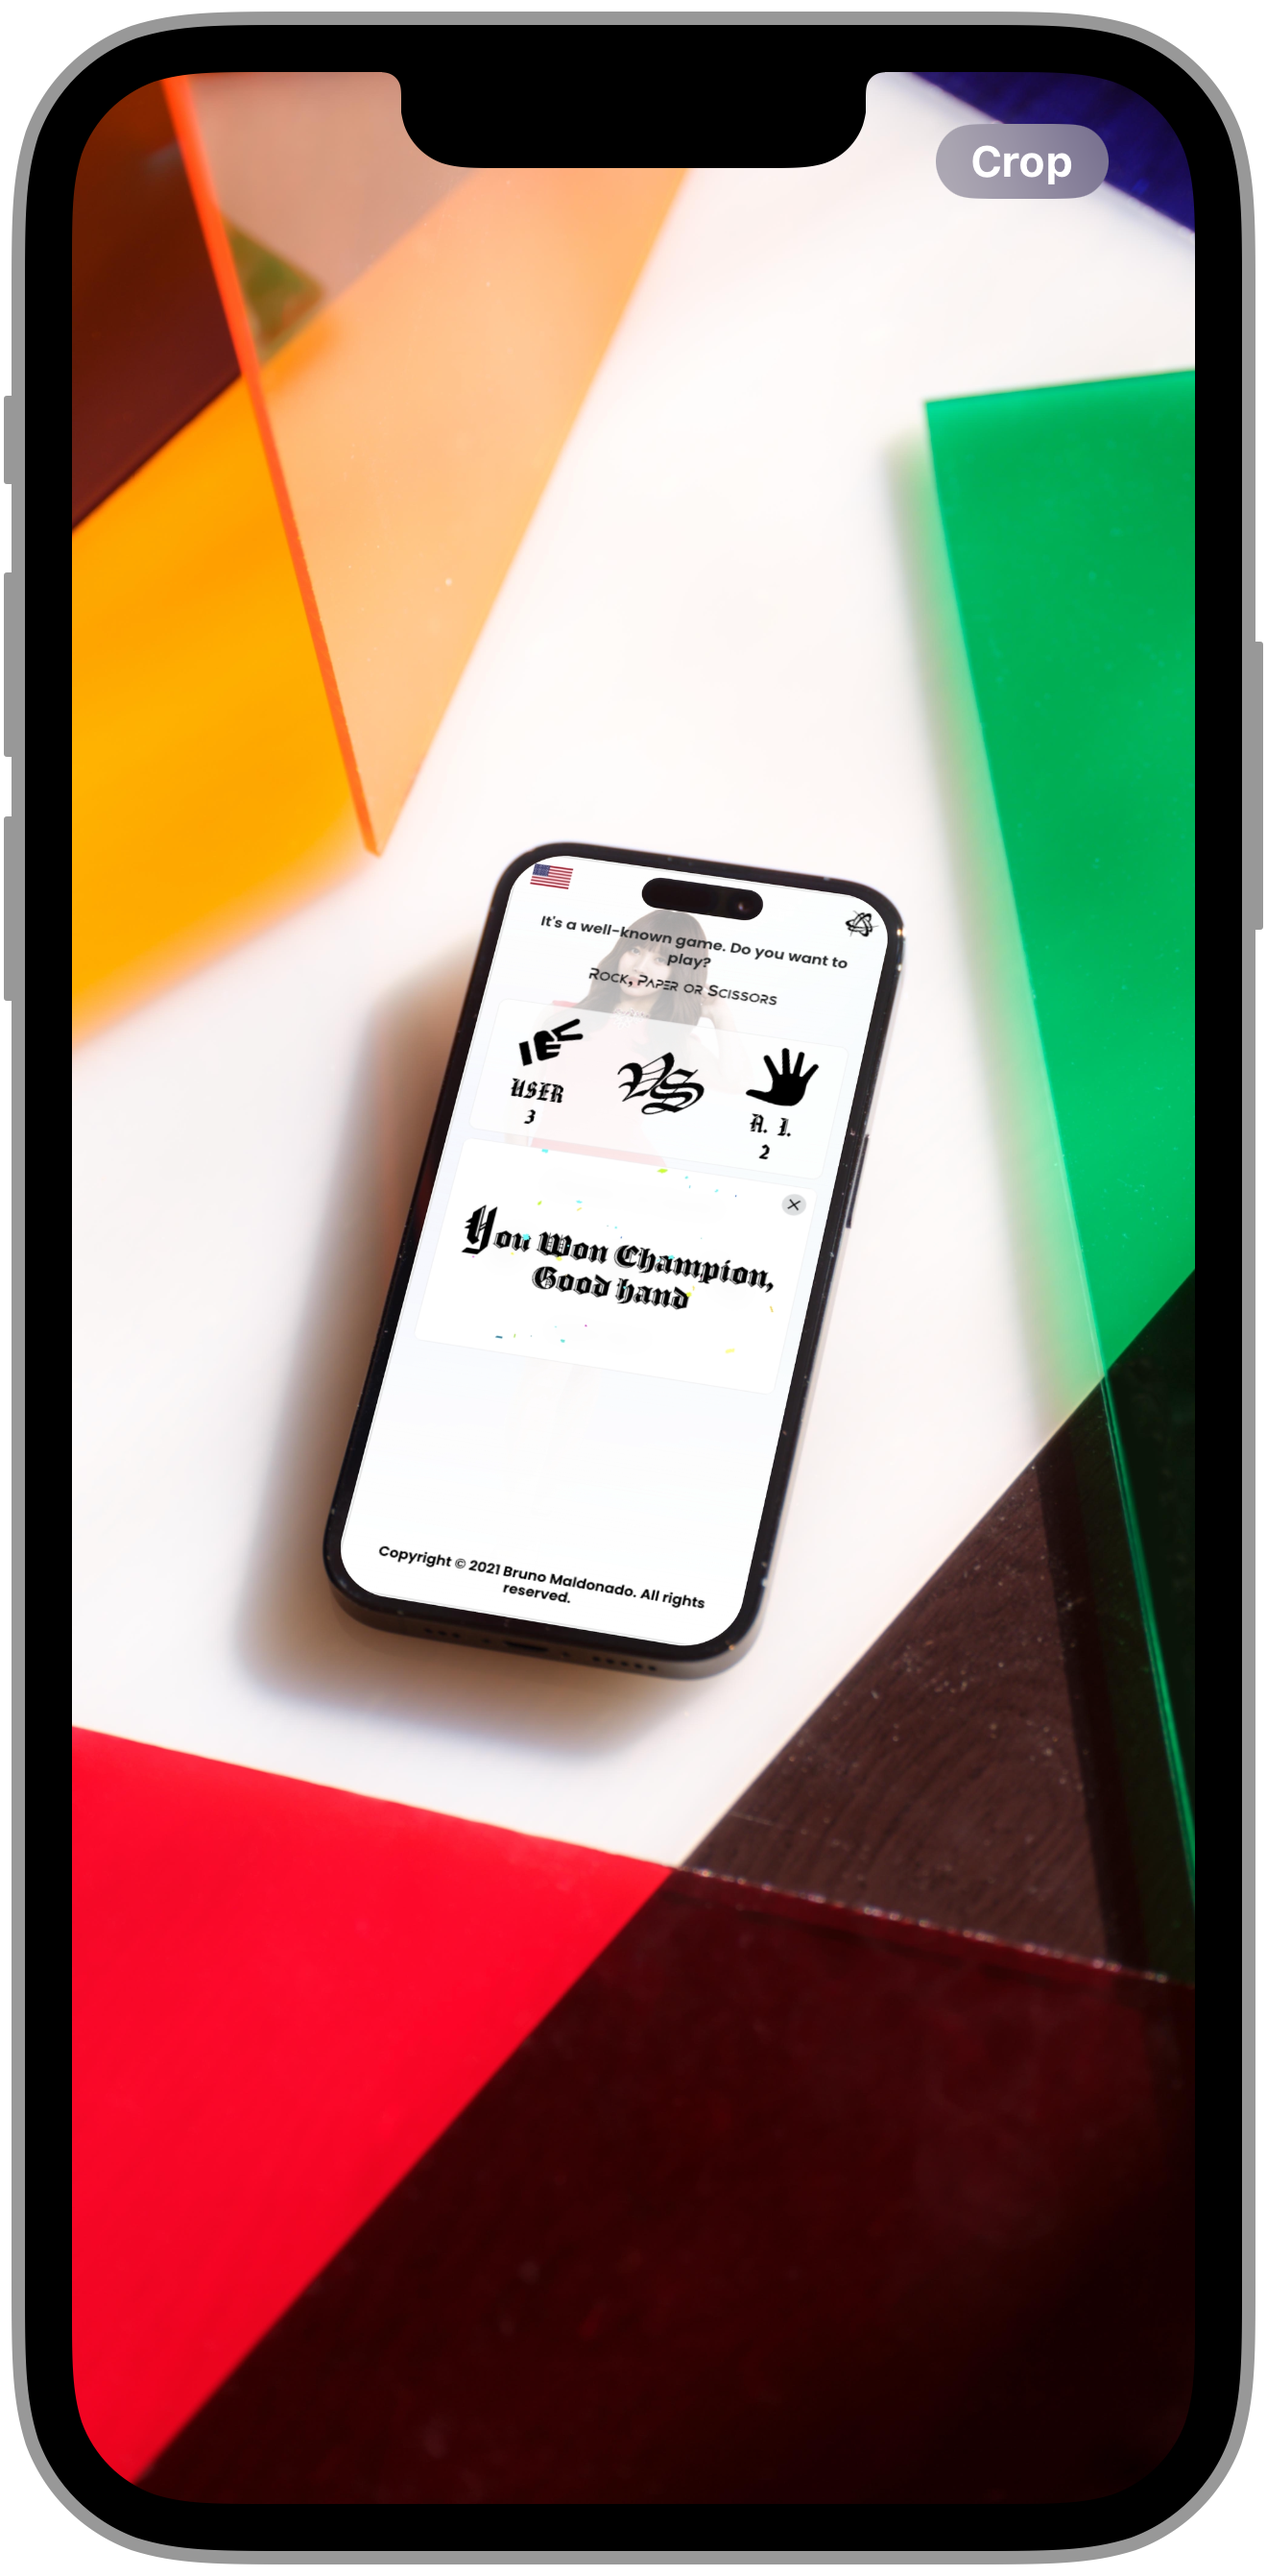
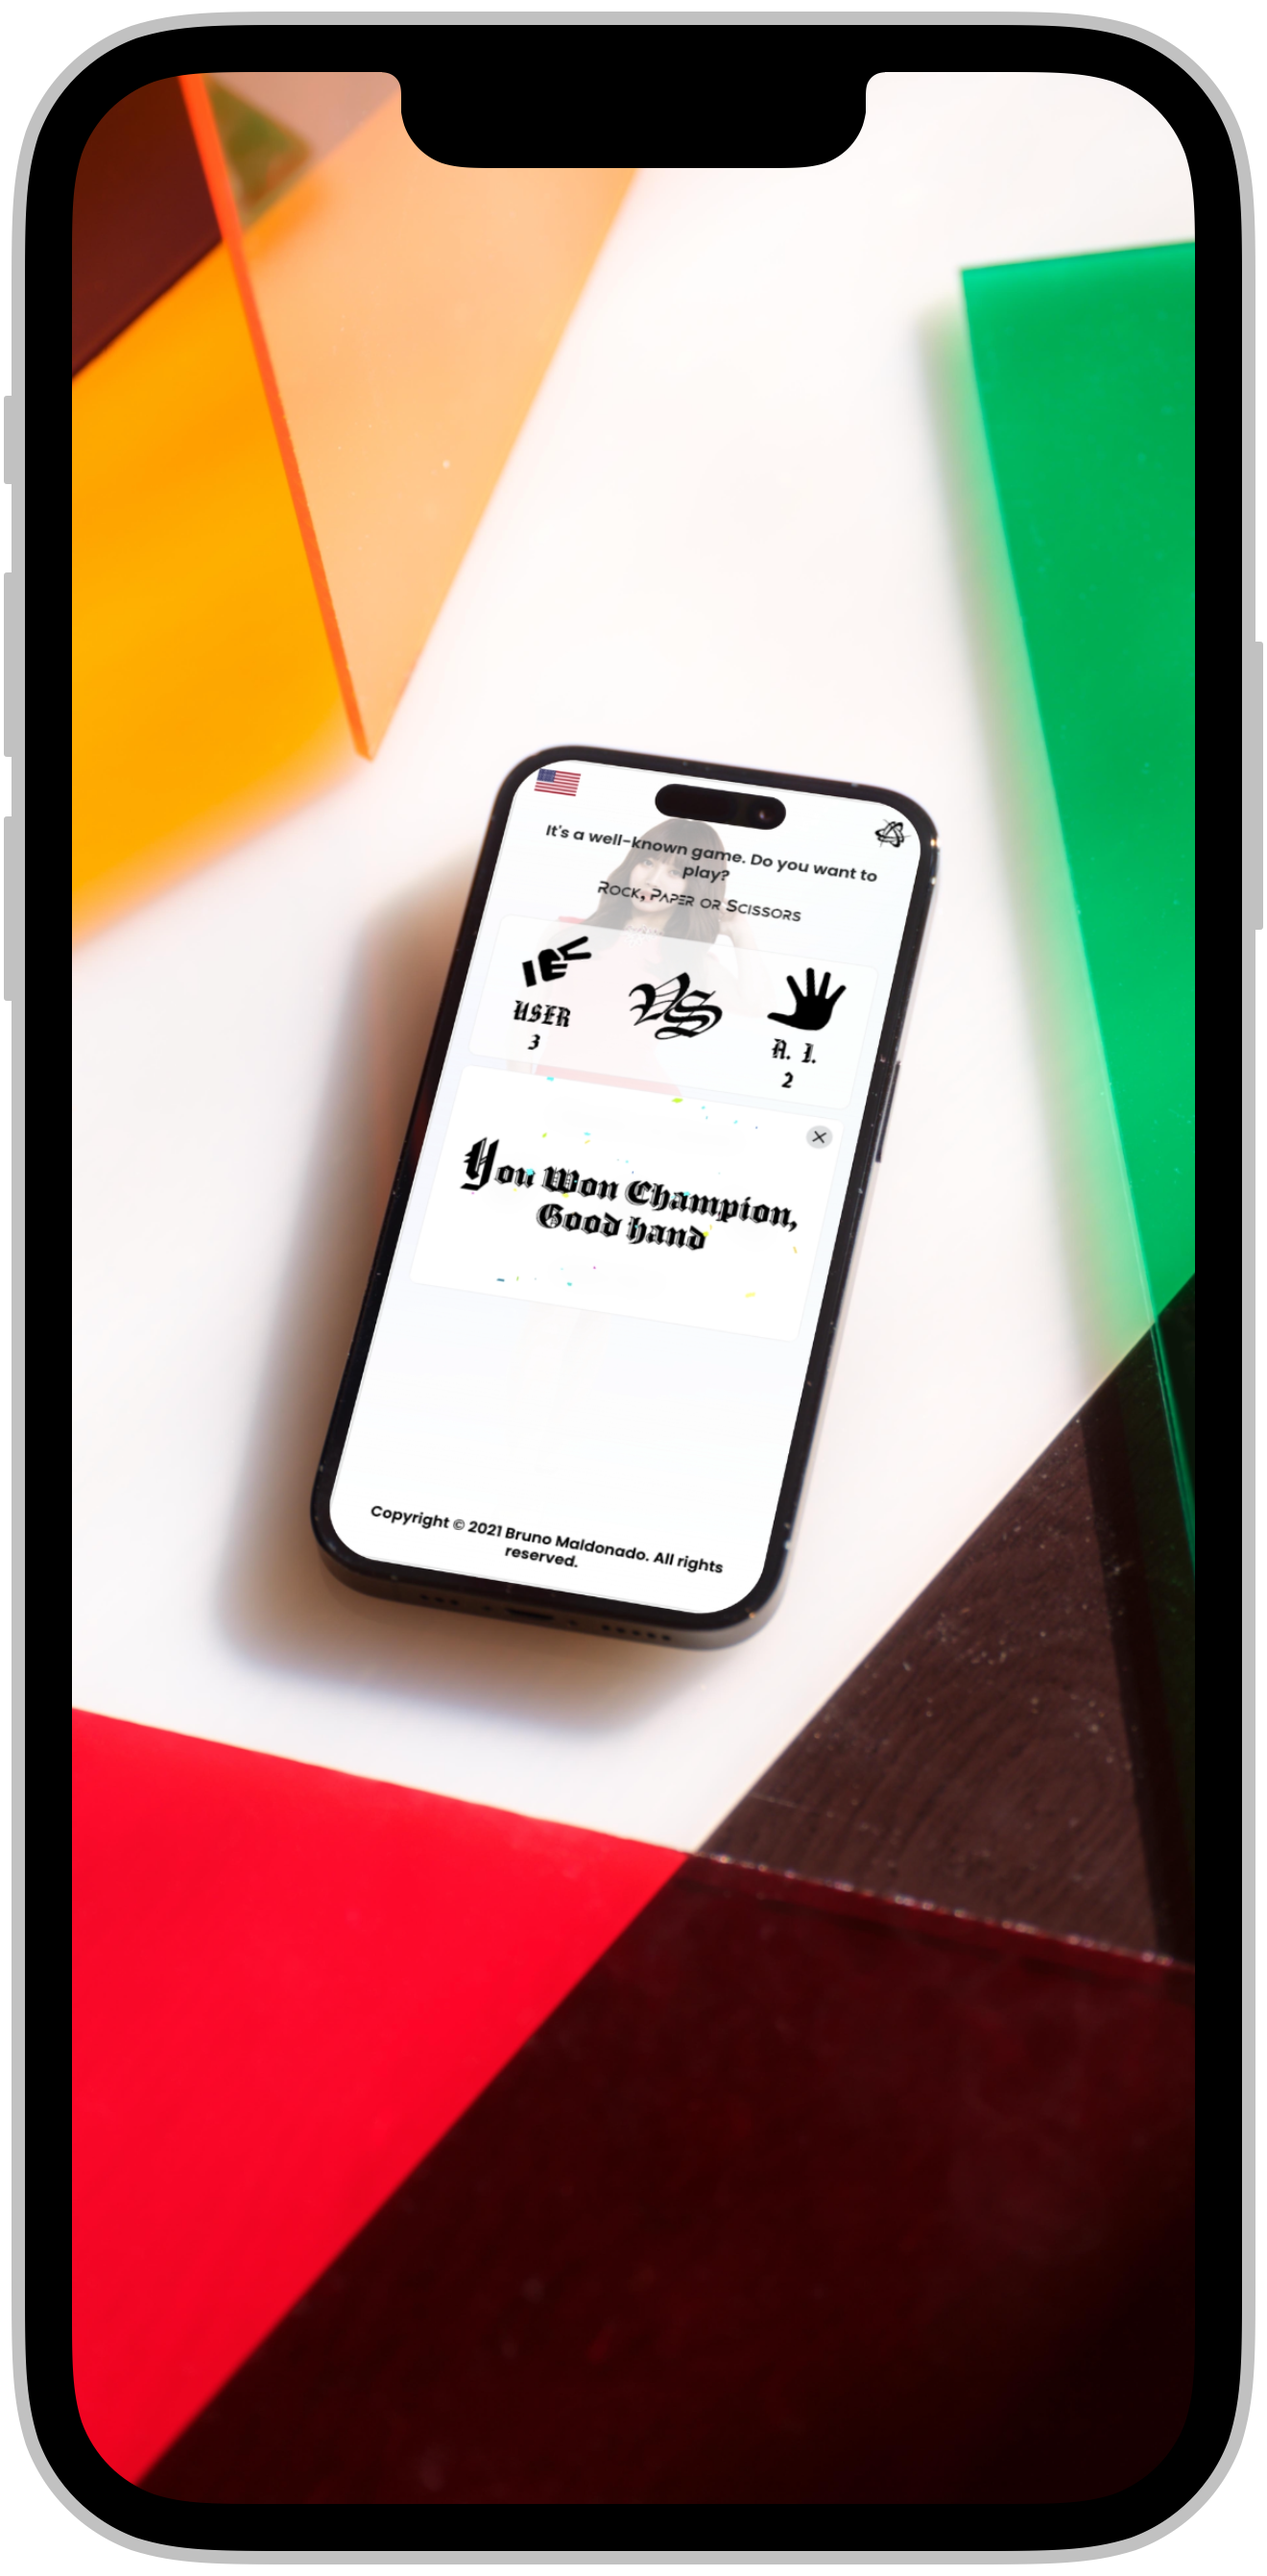
update

diff --git a/js/appen.js b/js/appen.js
@@ -18,8 +18,8 @@ const background_users = document.getElementById("background_users")
 const background_ai = document.getElementById("background_ai")
 const tie_background__users  = document.getElementById("tie_background__users")
 const tie_background__ai  = document.getElementById("tie_background__ai")
-var usersImages = ["./img/hum/01.png","./img/hum/03.png","./img/hum/02.png","./img/hum/04.png"]
-var iaImages = ["./img/rob/01.png","./img/rob/02.png","./img/rob/03.png","./img/rob/04.png"]
+var usersImages = ["./img/hum/01.png","./img/hum/02.png","./img/hum/10.png","./img/hum/04.png","./img/hum/05.png","./img/hum/07.png","./img/hum/08.png","./img/hum/09.png","./img/hum/10.png"]
+var iaImages = ["./img/rob/01.png","./img/rob/02.png","./img/rob/03.png","./img/rob/04.png","./img/rob/05.png","./img/rob/06.png","./img/rob/07.png","./img/rob/08.png"]
 var index = 0;
 
 var bookmark_user = 0;

diff --git a/css/style.css b/css/style.css
@@ -46,11 +46,6 @@ table, tr, td {
   height: 100%;
 } 
 
-.background img{
-  background-size: cover;
-  background-position: center;
-  height: 100%;
-}
 
 @font-face {
   font-family: "designer";
@@ -74,6 +69,10 @@ table, tr, td {
 @font-face {
   font-family: "gt";
   src: url("../fonts/Gt/Gt.ttf") format('truetype');
+}
+img {
+  /* width: 100%; */
+  height: 100%;
 }
 
 .cont {
@@ -808,7 +807,8 @@ licuar
 
   .top_header {
      max-width: 540px;
-    margin: 0 auto;
+      margin: 0 auto;
+      padding-top: 24px;
   }
 
   .game {

diff --git a/README.md b/README.md
@@ -8,7 +8,8 @@ Una previa visualizacion del juego, for cell phones, tablets and desktop.
 <table>
   <tr>
     <!-- <td valign="top"><img src="./assets/tablet.PNG" alt="tablet"></td> -->
-    <td valign="top"><img src="./assets/simulator.PNG" alt="tablet"></td>
+    <!-- <td valign="top"><img src="./assets/simulator1.PNG" alt="tablet"></td> -->
+    <td valign="top"><img src="./assets/tablet.PNG" alt="tablet"></td>
     <td valign="top"><img src="./assets/mobile.PNG" alt="mobile"></td>
   </tr>
 </table>
@@ -16,7 +17,7 @@ Una previa visualizacion del juego, for cell phones, tablets and desktop.
 Cuando se trata de juego solo existen dos tipos, los ganadores y los perdedores donde tu juegas con la I. A. solo encuentra la forma de vencerlo, los ganadores no dan escusas cuando el otro lado a jugado bien.
 
 <p align = "center">
-  <img src="./assets/fullscreen.PNG" alt="Start the Game">
+  <img src="./assets/desktop.PNG" alt="Start the Game">
 </p>
 
 El reto del fuego, no solo fue css-html y javascript, sino entender el algoritmo detras del juego.
